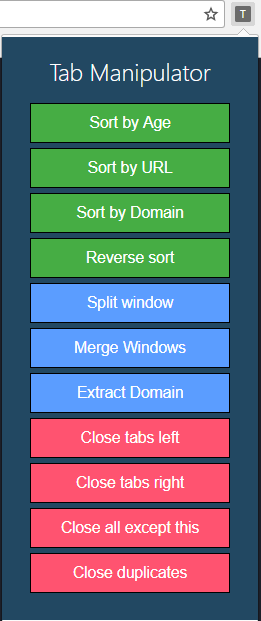
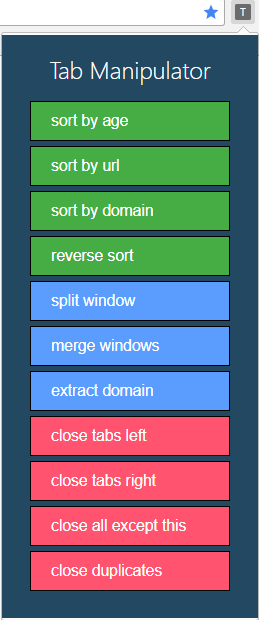
Fix inconsistent title-casing

Changed region(s): [[0.0927, 0.0919, 0.8958, 0.9806], [0.0, 0.0, 1.0, 1.0], [0.0, 0.0919, 0.0309, 1.0]]

diff --git a/src/popup.html b/src/popup.html
@@ -15,11 +15,11 @@
   </button>
 
   <button class="action sort" id="reverseSort">
-    Reverse sort
+    Reverse Sort
   </button>
 
   <button class="action window" id="splitWindow">
-    Split window
+    Split Window
   </button>
 
   <button class="action window" id="mergeWindows">
@@ -31,19 +31,19 @@
   </button>
 
   <button class="action close" id="closeTabsLeft">
-    Close tabs left
+    Close Tabs Left
   </button>
 
   <button class="action close" id="closeTabsRight">
-    Close tabs right
+    Close Tabs Right
   </button>
 
   <button class="action close" id="closeAllExceptCurrentTab">
-    Close all except this
+    Close All Except This
   </button>
 
   <button class="action close" id="closeDuplicates">
-    Close duplicates
+    Close Duplicates
   </button>
 
 </div>
